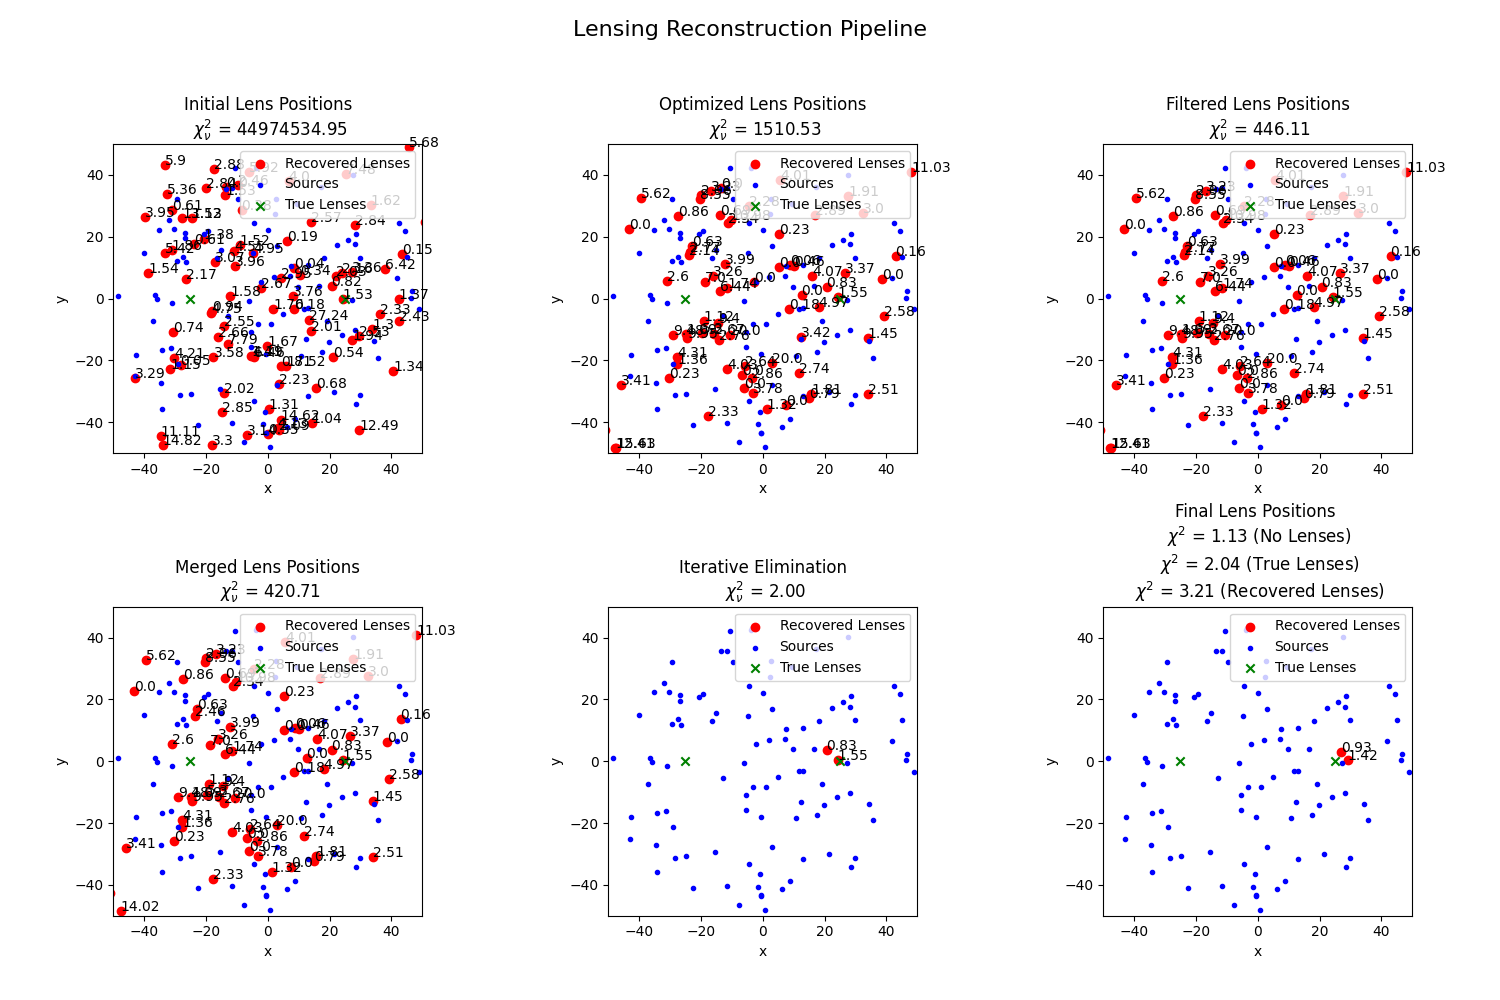
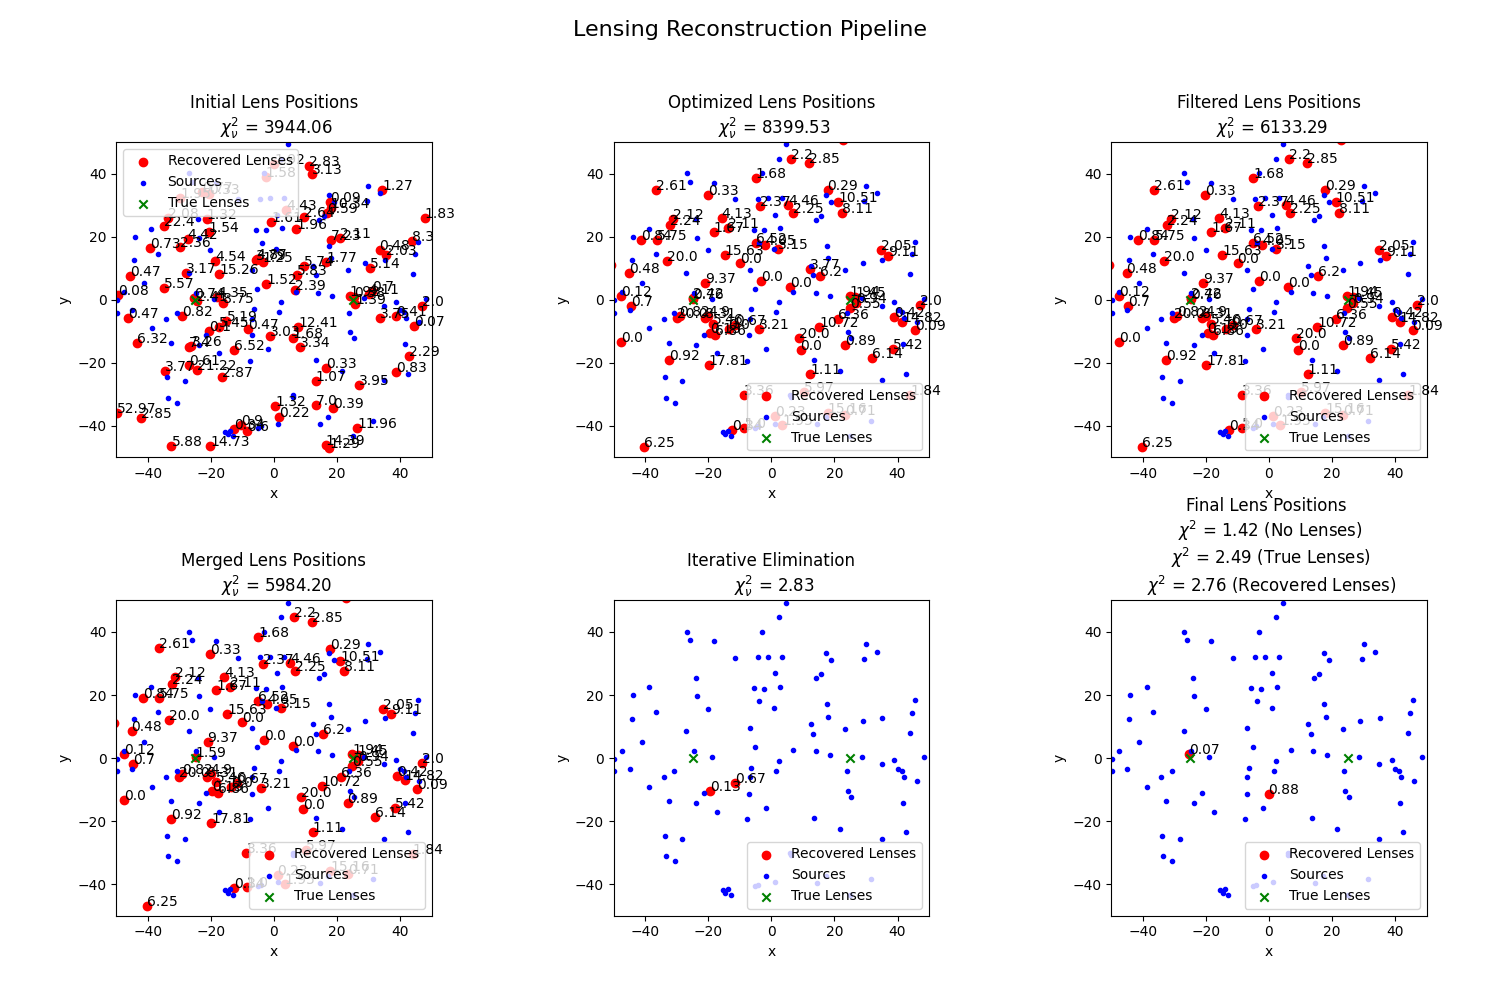
Correct error in chi2 calculations

diff --git a/pipeline.py b/pipeline.py
@@ -1,5 +1,5 @@
 import numpy as np
-from utils import chi2, generate_combinations
+# from utils import compute_chi2
 import scipy.optimize as opt
 
 # ------------------------------
@@ -39,11 +39,15 @@ class Source:
         gamma = np.sqrt(self.e1**2 + self.e2**2)
         flexion = np.sqrt(self.f1**2 + self.f2**2)
         r = gamma / flexion
-        return Lens(self.x + r * np.cos(phi), self.y + r * np.sin(phi), 2 * gamma * np.abs(r), 0)
+        return Lens(np.array(self.x + r * np.cos(phi)), np.array(self.y + r * np.sin(phi)), np.array(2 * gamma * np.abs(r)), 0)
     
 
     def apply_lensing_effects(self, lenses):
         # Apply the lensing effects of a set of lenses to the sources
+        if type(lenses.x) is not np.ndarray:
+            lenses.x = np.array([lenses.x])
+            lenses.y = np.array([lenses.y])
+            lenses.te = np.array([lenses.te])
 
         for i in range(len(lenses.x)):
             dx = self.x - lenses.x[i]
@@ -142,10 +146,13 @@ class Lens:
 
 
     def full_minimization(self, sources, sigf, sigs):
-        guess = np.concatenate((self.x, self.y, self.te))
+        xl = self.x
+        yl = self.y
+        tel = self.te
+        guess = np.concatenate((xl, yl, tel))
         params = [sources, sigf, sigs]
         result = opt.minimize(chi2wrapper, guess, args=(params), method='Nelder-Mead', tol=1e-8)
-        self.x, self.y, self.te = result.x[:len(self.x)], result.x[len(self.x):2*len(self.x)], result.x[2*len(self.x):]
+        self.x, self.y, self.te = result.x[:len(xl)], result.x[len(xl):2*len(xl)], result.x[2*len(xl):]
 
 
     def update_chi2_values(self, sources, sigf, sigs):
@@ -153,7 +160,7 @@ class Lens:
         self.chi2 = np.zeros(len(self.x))
         for i in range(len(self.x)):
             one_lens = Lens(self.x[i], self.y[i], self.te[i], 0)
-            self.chi2[i] = chi2(sources, one_lens, sigf, sigs)
+            self.chi2[i] = compute_chi2(sources, one_lens, sigf, sigs)
         dof = 4 * len(sources.x) - 3 * len(self.x)
         if dof <= 0:
             return np.inf # If dof is negative, there are more lenses than we can fit
@@ -178,7 +185,7 @@ def createSources(lenses,ns=1,randompos=True,sigf=0.01,sigs=0.1,xmax=5):
     x = r*np.cos(phi)
     y = r*np.sin(phi)
 
-    #Add noise to the sources
+    # Initialize lensing parameters with gaussian noise
     e1data = np.random.normal(0,sigs,ns)
     e2data = np.random.normal(0,sigs,ns)
     f1data = np.random.normal(0,sigf,ns)
@@ -208,6 +215,64 @@ def createLenses(nlens=1,randompos=True,xmax=10):
 
 
 # ------------------------------
+# Chi^2 functions
+# ------------------------------
+
+
+def eR_penalty_function(eR, lower_limit=0.0, upper_limit=20.0, lambda_penalty_upper=10.0):
+    # Hard lower limit
+    if eR < lower_limit:
+        return 1e8 #Use an arbitrarily large number - NOT infinity (will yield NaNs)
+
+    # Soft upper limit
+    if eR > upper_limit:
+        return lambda_penalty_upper * (eR - upper_limit) ** 2
+
+    return 0.0
+
+
+def compute_chi2(sources, lenses, sigf, sigs, fwgt=1.0, swgt=1.0):
+    x, y, e1data, e2data, f1data, f2data = sources.x, sources.y, sources.e1, sources.e2, sources.f1, sources.f2
+    # Initialize chi^2 value
+    chi2val = 0.0
+    
+    # Loop through the data points to compute the chi^2 terms
+    # What if we only get one data point?
+    # Turn it into an array of length 1
+    if not isinstance(x, np.ndarray):
+        x = np.array([x])
+        y = np.array([y])
+        e1data = np.array([e1data])
+        e2data = np.array([e2data])
+        f1data = np.array([f1data])
+        f2data = np.array([f2data])
+
+    for i in range(len(x)):
+        one_source = Source(x[i], y[i], 0, 0, 0, 0)
+        one_source.apply_lensing_effects(lenses)
+
+        chie1 = (e1data[i] - one_source.e1) ** 2 / (sigs ** 2)
+        chie2 = (e2data[i] - one_source.e2) ** 2 / (sigs ** 2)
+        chif1 = (f1data[i] - one_source.f1) ** 2 / (sigf ** 2)
+        chif2 = (f2data[i] - one_source.f2) ** 2 / (sigf ** 2)
+
+        chi2val += fwgt * (chif1 + chif2) + swgt * (chie1 + chie2)
+    
+    # Add the penalty term for Einstein radii outside the threshold
+    total_penalty = 0.0
+    try:
+        for eR in lenses.te:
+            total_penalty += eR_penalty_function(eR)
+    except TypeError: # If lenses.te is not an array
+        total_penalty += eR_penalty_function(lenses.te)
+
+    chi2val += total_penalty
+    
+    return chi2val
+
+
+
+# ------------------------------
 # Helper functions
 # ------------------------------
 
@@ -224,7 +289,7 @@ def print_step_info(flags,message,sources,lenses,reducedchi2):
 def chi2wrapper(guess,params):
     # Wrapper function for chi2 to allow for minimization
     lenses = Lens(guess[0], guess[1], guess[2], 0)
-    return chi2(params[0],lenses,params[1],params[2])
+    return compute_chi2(params[0],lenses,params[1],params[2])
 
 
 def get_chi2_value(sources, lenses):

diff --git a/utils.py b/utils.py
@@ -53,22 +53,26 @@ def stn_shear(eR, n, sigma, rmin, rmax):
     return term1 * term2
 
 
-def lens(x,y,lenses):
-    #Compute the lensing signals on a single source 
-    #from a set of lenses
-    dx = x-lenses.x
-    dy = y-lenses.y
-    r = np.sqrt(dx**2+dy**2)
-    cosphi = dx/r
-    sinphi = dy/r
-    cos2phi = cosphi*cosphi-sinphi*sinphi
-    sin2phi = 2*cosphi*sinphi
+def lens(sources,lenses):
+    e1 = np.zeros(len(sources.x))
+    e2 = np.zeros(len(sources.x))
+    f1 = np.zeros(len(sources.x))
+    f2 = np.zeros(len(sources.x))
 
-    f1 = np.sum(-dx*lenses.te/(2*r*r*r))
-    f2 = np.sum(-dy*lenses.te/(2*r*r*r))
+    for i in range(len(lenses.x)):
+        dx = sources.x - lenses.x[i]
+        dy = sources.y - lenses.y[i]
+        r = np.sqrt(dx**2 + dy**2)
 
-    e1 = np.sum(-lenses.te/(2*r)*cos2phi)
-    e2 = np.sum(-lenses.te/(2*r)*sin2phi)
+        cosphi = dx/r
+        sinphi = dy/r
+        cos2phi = cosphi*cosphi-sinphi*sinphi
+        sin2phi = 2*cosphi*sinphi
+    
+        e1 += -lenses.te[i]/(2*r)*cos2phi
+        e2 += -lenses.te[i]/(2*r)*sin2phi
+        f1 += -dx*lenses.te[i]/(2*r*r*r)
+        f2 += -dy*lenses.te[i]/(2*r*r*r)
 
     return e1,e2,f1,f2
 
@@ -85,7 +89,7 @@ def eR_penalty_function(eR, lower_limit=0.0, upper_limit=20.0, lambda_penalty_up
     return 0.0
 
 
-def chi2(sources, lenses, sigf, sigs, fwgt=1.0, swgt=1.0):
+def compute_chi2(sources, lenses, sigf, sigs, fwgt=1.0, swgt=1.0):
     x, y, e1data, e2data, f1data, f2data = sources.x, sources.y, sources.e1, sources.e2, sources.f1, sources.f2
     # Initialize chi^2 value
     chi2val = 0.0
@@ -100,17 +104,15 @@ def chi2(sources, lenses, sigf, sigs, fwgt=1.0, swgt=1.0):
         e2data = np.array([e2data])
         f1data = np.array([f1data])
         f2data = np.array([f2data])
-    
+
+    e1, e2, f1, f2 = lens(sources, lenses)
+
     for i in range(len(x)):
-        # Assuming your 'lens' function can handle tetest being an array
-        # If not, you may need to modify this part
-        e1, e2, f1, f2 = lens(x[i], y[i], lenses)
-        
-        chif1 = (f1data[i] - f1) ** 2 / (sigf ** 2)
-        chif2 = (f2data[i] - f2) ** 2 / (sigf ** 2)
-        chie1 = (e1data[i] - e1) ** 2 / (sigs ** 2)
-        chie2 = (e2data[i] - e2) ** 2 / (sigs ** 2)
-        
+        chie1 = (e1data[i] - e1[i]) ** 2 / (sigs ** 2)
+        chie2 = (e2data[i] - e2[i]) ** 2 / (sigs ** 2)
+        chif1 = (f1data[i] - f1[i]) ** 2 / (sigf ** 2)
+        chif2 = (f2data[i] - f2[i]) ** 2 / (sigf ** 2)
+
         chi2val += fwgt * (chif1 + chif2) + swgt * (chie1 + chie2)
     
     # Add the penalty term for Einstein radii outside the threshold

diff --git a/test_pipeline.py b/test_pipeline.py
@@ -6,7 +6,7 @@ import time
 from astropy.visualization import hist as fancyhist
 
 # Define default noise parameters
-sigf = 0.01 
+sigf = 0.01
 sigs = 0.1 
 
 # ------------------------
@@ -346,9 +346,30 @@ def vary_eR_chi(telens):
 if __name__ == '__main__':
     # test_initial_guesser()
     # run_simple_test(1, 100, 50, flags=False)
-    # visualize_pipeline_steps(2, 100, 50)
+    visualize_pipeline_steps(2, 100, 50)
 
-    # raise SystemExit
+    raise SystemExit
+
+    nl = 1
+    ns = 10
+    xmax = 5
+
+    lenses = pipeline.createLenses(nlens=nl, randompos=False, xmax=xmax)
+    sources = pipeline.createSources(lenses, ns=ns, sigf=sigf, sigs=sigs, randompos=False, xmax=xmax)
+
+    plt.figure()
+    plt.scatter(lenses.x, lenses.y, color='red', label='Lenses')
+    plt.scatter(sources.x, sources.y, color='blue', label='Sources')
+    plt.quiver(sources.x, sources.y, sources.f1, sources.f2, color='blue', label='Flexion')
+    plt.xlim(-xmax, xmax)
+    plt.ylim(-xmax, xmax)
+    plt.legend()
+    plt.show()
+
+
+
+
+    raise SystemExit
 
     Nsource = 100
     Nlens = [1,2]
